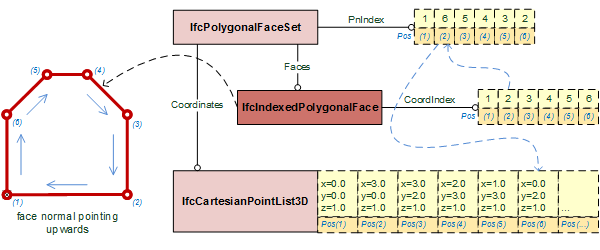
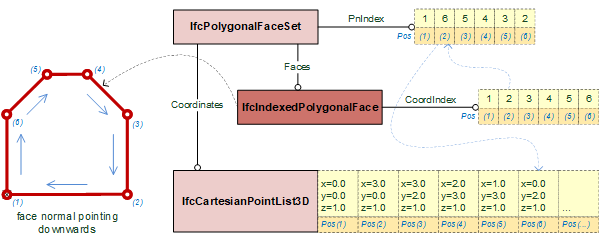
fixes and updated figures for IfcPolygonalFaceSet
minor documentation updates and update of figures

diff --git a/docs/schemas/resource/IfcGeometricModelResource/Entities/IfcIndexedPolygonalFace.md b/docs/schemas/resource/IfcGeometricModelResource/Entities/IfcIndexedPolygonalFace.md
@@ -4,14 +4,11 @@ The _IfcIndexedPolygonalFace_ is a compact representation of a planar face being
 
 Figure 1 shows an _IfcIndexedPolygonalFace_ at an _IfcPolygonalFaceSet_ not using _PnIndex_ (the default).
 
-!["IfcIndexedPolygonalFace"](../../../../figures/ifcindexedpolygonalface_01.png "Figure 1 &mdash; Polygonal face geometry provided by indices into a point list")
-
-&nbsp;
+!["IfcIndexedPolygonalFace not using PnIndex"](../../../../figures/ifcindexedpolygonalface_01.png "Figure 1 &mdash; Polygonal face geometry provided by indices into a point list")
 
 Figure 2 shows an _IfcIndexedPolygonalFace_ at an _IfcPolygonalFaceSet_ using _PnIndex_.
 
-!["IfcIndexedPolygonalFace us
-ing PnIndex"](../../../../figures/ifcindexedpolygonalface_02.png "Figure 2 &mdash; Polygonal face geometry provided by indices into a point list")
+!["IfcIndexedPolygonalFace using PnIndex"](../../../../figures/ifcindexedpolygonalface_02.png "Figure 2 &mdash; Polygonal face geometry provided by indices into an PN Index")
 
 > HISTORY&nbsp; New entity in IFC4 Addendum 2.
 
@@ -23,3 +20,6 @@ One-dimensional list with the indices for the three or more points, that define 
 
 ### ToFaceSet
 Reference to the _IfcPolygonalFaceSet_ for which this face is associated.
+
+### HasTexCoords
+Optional reference to the _IfcTextureCoordinateIndices_ that provide the texture coordinates for applying textures to this face.
